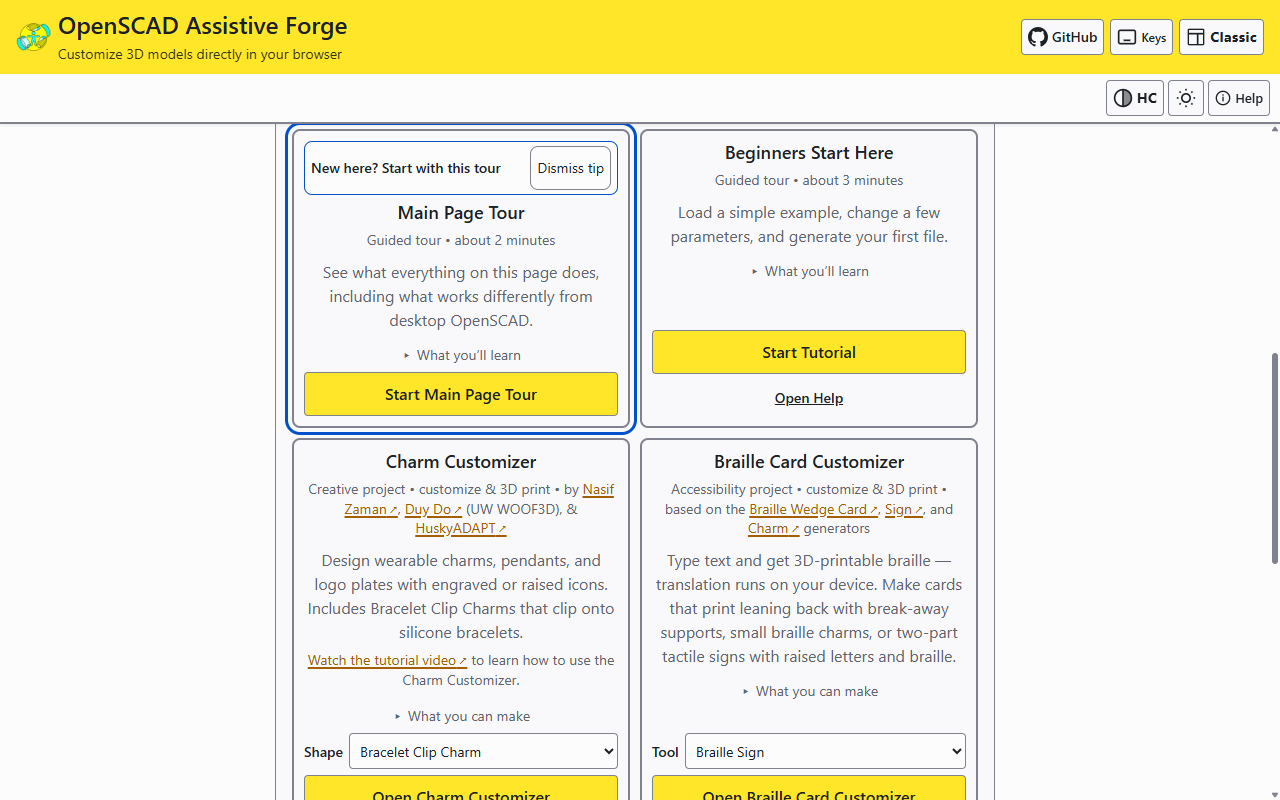
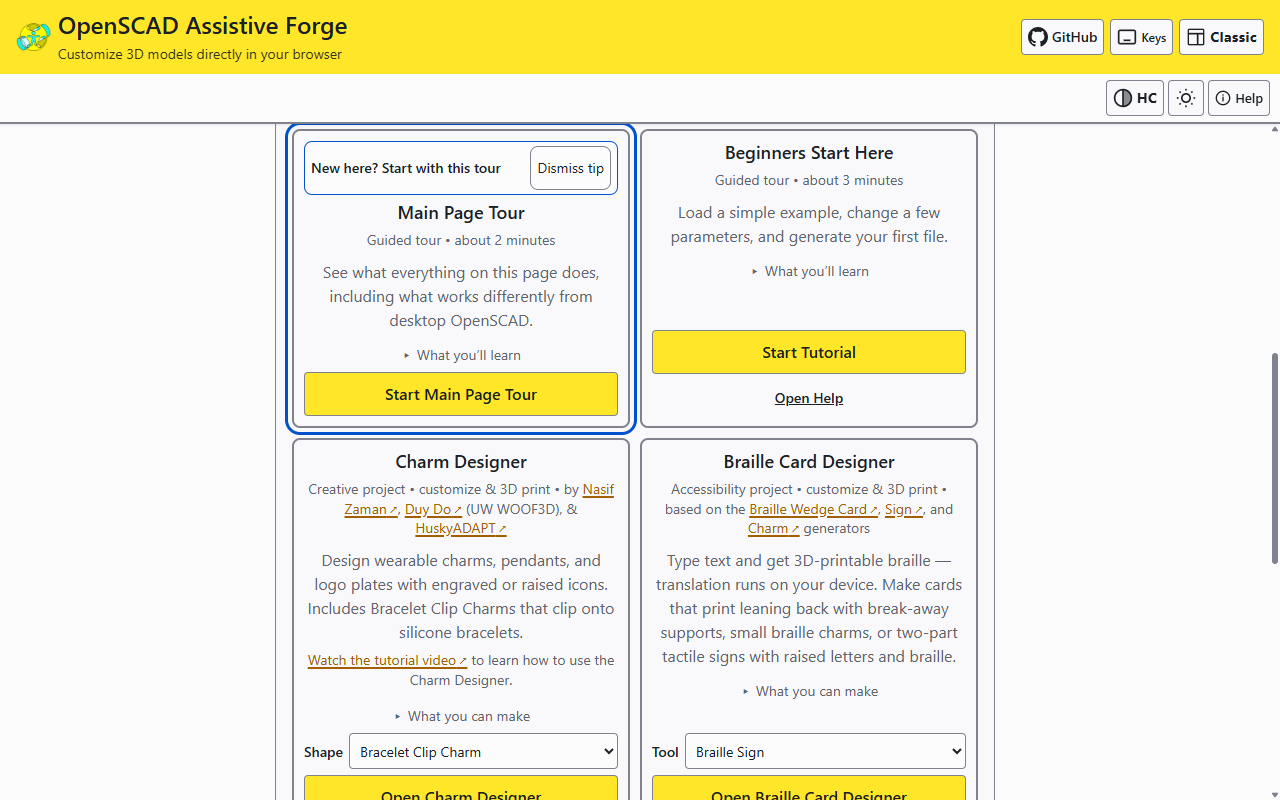
docs: the join - develop folded in, the Designers named, the editor in the journal
The design line landed on develop, so this branch takes the merge and
the join work its PR body promised: the CHANGELOG fold came out of the
merge with every design entry inside the 5.0.0 block already; the
living docs say Charm Designer and Braille Card Designer now (the
4.5.0 release notes keep their own history); the welcome screenshot is
retaken with the renamed cards; and the journal gains the drawing
editor as one picture - the bird filling the editor - plus a note for
anyone looking for the old card names, and the DXF curves and warnings
in plain words.

Board on the joined branch: 178 files, 5,757 passed, 2 skipped.

Claude-Session: https://claude.ai/code/session_01VKYawLP1FwonuziQDGyUBa

diff --git a/docs/updates/WHATS_NEW_v5.md b/docs/updates/WHATS_NEW_v5.md
@@ -15,7 +15,7 @@ If you want the complete engineering record instead, it lives in
 
 ## A friendlier front door
 
-![The welcome screen showing the tool cards: Main Page Tour, Beginners Start Here, and the Charm Customizer card with its credits line](images/welcome-tools.png)
+![The welcome screen showing the tool cards: Main Page Tour, Beginners Start Here, and the Charm Designer card with its credits line](images/welcome-tools.png)
 
 The welcome screen is now a real front door instead of a hurdle. A
 guided tour and a beginners' path sit at the top, and below them each
@@ -23,6 +23,12 @@ tool gets its own card with a plain description and the credits for
 the designers whose work it builds on. On a phone, the dialog finally
 fits the screen: the title stays out from under the browser toolbar
 and the buttons never wander off the bottom edge.
+
+If you are looking for the Charm Customizer or the Braille Card
+Customizer: they are here, renamed the **Charm Designer** and the
+**Braille Card Designer**. Two cards and the parameter panel were all
+called Customizers, one word doing three jobs on one screen - now the
+panel keeps the name and the cards say what they are.
 
 ## Three views of the same workshop
 
@@ -55,7 +61,7 @@ costume, and it is the part of version 5 I am quietly proudest of.
 
 ## Type words, print braille
 
-![The Braille Card Customizer: a wedge shaped card with braille dots reading hello world in the preview, and a translation panel with the text box and a language and grade selector](images/braille-card.png)
+![The Braille Card Designer: a wedge shaped card with braille dots reading hello world in the preview, and a translation panel with the text box and a language and grade selector](images/braille-card.png)
 
 The braille tools arrived in 4.5.0; version 5 is where they grew up.
 Translation still runs entirely on your device - the text never
@@ -69,9 +75,9 @@ folder instead of a mystery string.
 
 ## A charm from a drawing
 
-![The Charm Customizer: a round pendant with a heart design and a hanging hole, with Shape, Design, Border, and Attachment parameter groups](images/charm-customizer.png)
+![The Charm Designer: a round pendant with a heart design and a hanging hole, with Shape, Design, Border, and Attachment parameter groups](images/charm-customizer.png)
 
-The Charm Customizer turns a simple drawing into a wearable pendant,
+The Charm Designer turns a simple drawing into a wearable pendant,
 and feeding it your own art is now a documented job rather than a
 favour. The drawing editor underneath it learned the two halves of a
 round trip this summer: open a drawing, clean it up, and save it back
@@ -79,6 +85,17 @@ out - as SVG or as DXF - even if you never make a 3D design from it.
 Symbols keep their pictures instead of turning into coloured blobs,
 and if another program is watching a folder, your edits can land
 straight in it.
+
+![The drawing editor: a bird line drawing filling the editor as one picture, with a shapes panel open beside it and Save edited SVG and Save as DXF buttons in the toolbar](images/drawing-editor.png)
+
+The editor itself got the change I care most about: it is **one
+picture** now. The drawing you are editing fills the space, and
+switching a shape on or off shows right there in it - the old
+side-by-side comparison is still one button away, but it no longer
+takes half the room by default. A DXF's curves arrive whole now too
+(a sketch that used to open as two shapes opens with all of them),
+and anything the engine has to say about a file shows up in the
+editor's own warnings list instead of disappearing.
 
 ## A stencil from a picture
 

diff --git a/PROJECT_STATUS.md b/PROJECT_STATUS.md
@@ -10,7 +10,7 @@ This is a single-maintainer project. This file is here so I don’t have to answ
 
 - The web app works: upload a Customizer-enabled `.scad`, tweak params, preview, export.
 - It’s intentionally **client-side only** (no accounts, no uploads, no backend).
-- The welcome screen ships ready-to-use tools: the **Charm Customizer** (with its SVG drawing editor), the **Braille Card Customizer** (card / charm / sign, with on-device liblouis braille translation), and the **Stencil Maker**.
+- The welcome screen ships ready-to-use tools: the **Charm Designer** (with its SVG drawing editor), the **Braille Card Designer** (card / charm / sign, with on-device liblouis braille translation), and the **Stencil Maker**.
 - There are **two interfaces**: the guided **Assistive Forge** one, and **Classic**, which reproduces the OpenSCAD desktop window. The app asks which you want on your first visit and you can switch at any time.
 - The stencil work grew bigger than I expected, so I’ve shelved the deeper stencil project for now — the Stencil Maker tile stays usable as it stands, and I’ll pick the rest up another time.
 

diff --git a/README.md b/README.md
@@ -29,13 +29,13 @@ So this is my attempt at removing a few of those barriers and hopefully opening 
 
 The welcome screen ships with ready-to-use customizers -- no `.scad` file needed:
 
-- **Braille Card Customizer** -- type plain text and get 3D-printable braille;
+- **Braille Card Designer** -- type plain text and get 3D-printable braille;
   translation (Grade 1 / Grade 2) runs entirely on-device via liblouis compiled
   to WebAssembly. Three variants: a card that prints leaning back at 75° with
   break-away supports, a small charm/pendant/zipper pull, and a two-part
   tactile sign with raised letters and braille (ADA-style defaults). See
   `docs/guides/BRAILLE_CARD_GUIDE.md`.
-- **Charm Customizer** -- design wearable charms, pendants, and logo plates
+- **Charm Designer** -- design wearable charms, pendants, and logo plates
   with engraved or raised icons, including C-clip charms that snap onto
   silicone bracelets. Import your own SVG or pick from the built-in library.
 
